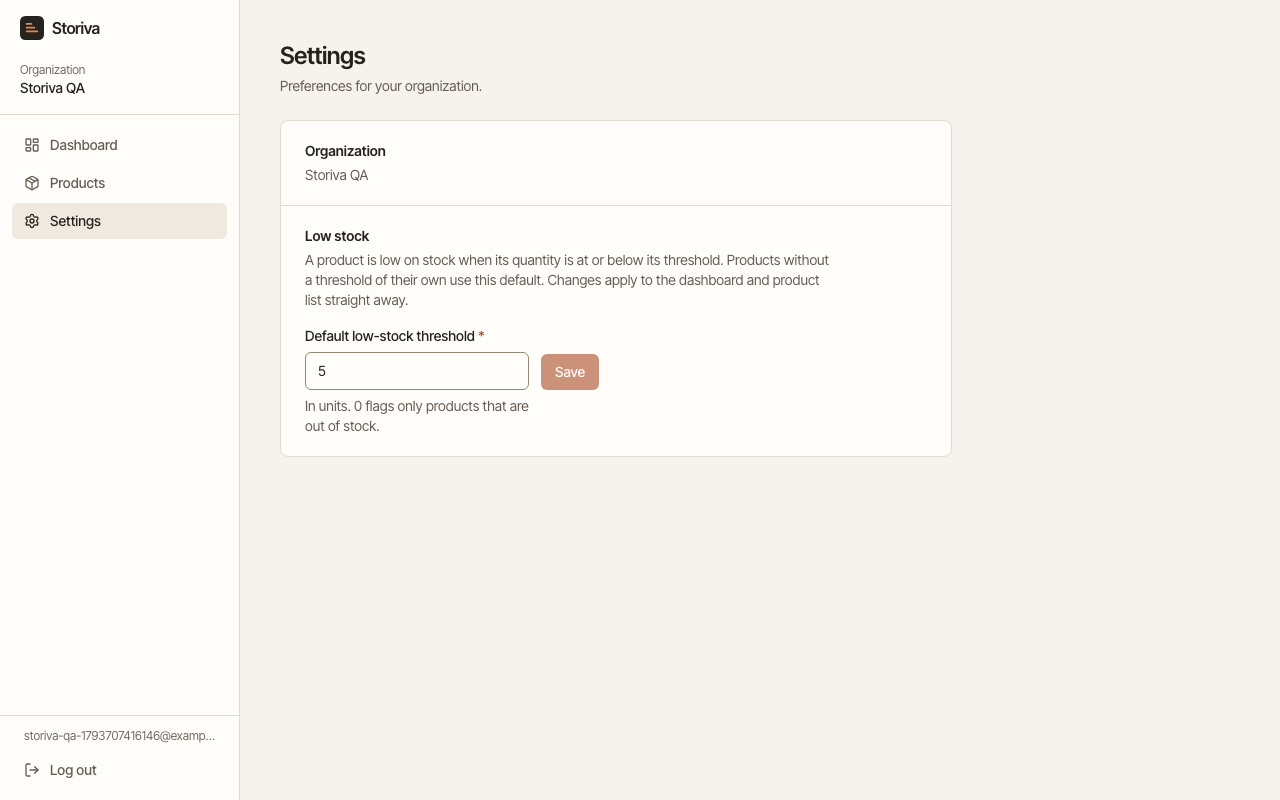
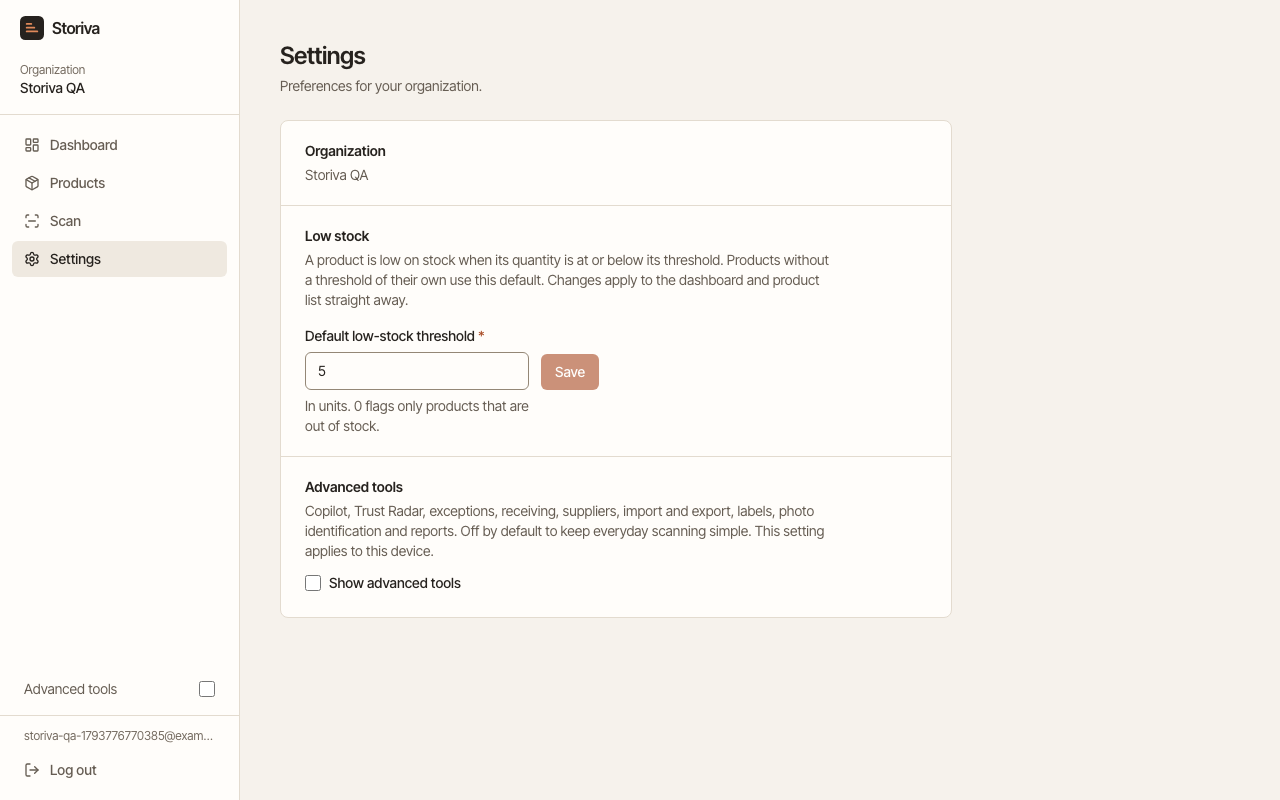
docs: refresh README screenshots for scanning, barcodes and the current layout
Retakes the first-run, phone, product form and settings screenshots, which predated scanning and
the advanced tools, and adds the dashboard, product list, camera scanning, Quick Add, scanning on
the product form, and a product's barcodes and stock history.

diff --git a/README.md b/README.md
@@ -10,18 +10,39 @@ glance and knows which products need reordering.
 new organization starts empty. The service runs on Render's free plan, so the first request after
 a period of inactivity can take up to a minute.
 
+### Everyday use
+
+| Dashboard | Products |
+| --- | --- |
+| ![Dashboard with product and unit totals and a table of low-stock items](docs/screenshots/dashboard.png) | ![Product list with search, filter, sort and stock status for each product](docs/screenshots/products.png) |
+
+| Scanning with the camera | Quick Add from the product catalogue |
+| --- | --- |
+| ![Scan page: the camera has read a barcode and shows the matching product](docs/screenshots/scan-camera.png) | ![An unknown barcode opens Quick Add with the name and brand filled from Open Food Facts](docs/screenshots/quick-add.png) |
+
+| Barcode filled by the camera on Add product | Barcodes and stock history |
+| --- | --- |
+| ![Add product with the scanned barcode filled in and a warning that another product already uses it](docs/screenshots/product-form-scan.png) | ![Product page listing its barcode, an Add a barcode field with a camera button, and stock history](docs/screenshots/product-barcodes-history.png) |
+
+### First run and settings
+
 | First run | Phone |
 | --- | --- |
 | ![Dashboard of a new organization, prompting for the first product](docs/screenshots/dashboard-first-run.png) | ![Dashboard on a phone, with bottom navigation](docs/screenshots/mobile-dashboard.png) |
 
 | Product form with validation | Settings |
 | --- | --- |
-| ![Add product form showing required-field errors](docs/screenshots/product-form-validation.png) | ![Settings page with the default low-stock threshold](docs/screenshots/settings.png) |
+| ![Add product form showing required-field errors](docs/screenshots/product-form-validation.png) | ![Settings page with the default low-stock threshold and the advanced tools switch](docs/screenshots/settings.png) |
 
-Screenshots are taken from the deployed application with an empty QA organization; no sample
-inventory was created for them.
+All screenshots are taken from the deployed application with temporary QA organizations, which
+were deleted afterwards. In the everyday-use screenshots:
 
-### Advanced tools
+- The products are 24 rows from a generated sample CSV, plus one product created for the
+  screenshots.
+- The camera was fed recorded test videos of printed barcodes.
+- The Quick Add details are Open Food Facts' real entry for that barcode.
+
+### Advanced tools at a glance
 
 | Trust Radar | Exception Manager |
 | --- | --- |
@@ -177,6 +198,8 @@ advanced tools** turns them on for that device. On a phone they appear under the
 - Identify by photo relies on a barcode, a SKU or legible text. It cannot recognise an unlabelled
   object by its appearance.
 - Offline mode covers scanning and receive, issue and count. Other screens need a connection.
+- The product list loads every product at once. With a few thousand products it takes several
+  seconds to open; paging is not implemented yet.
 
 ## Technology stack
 
